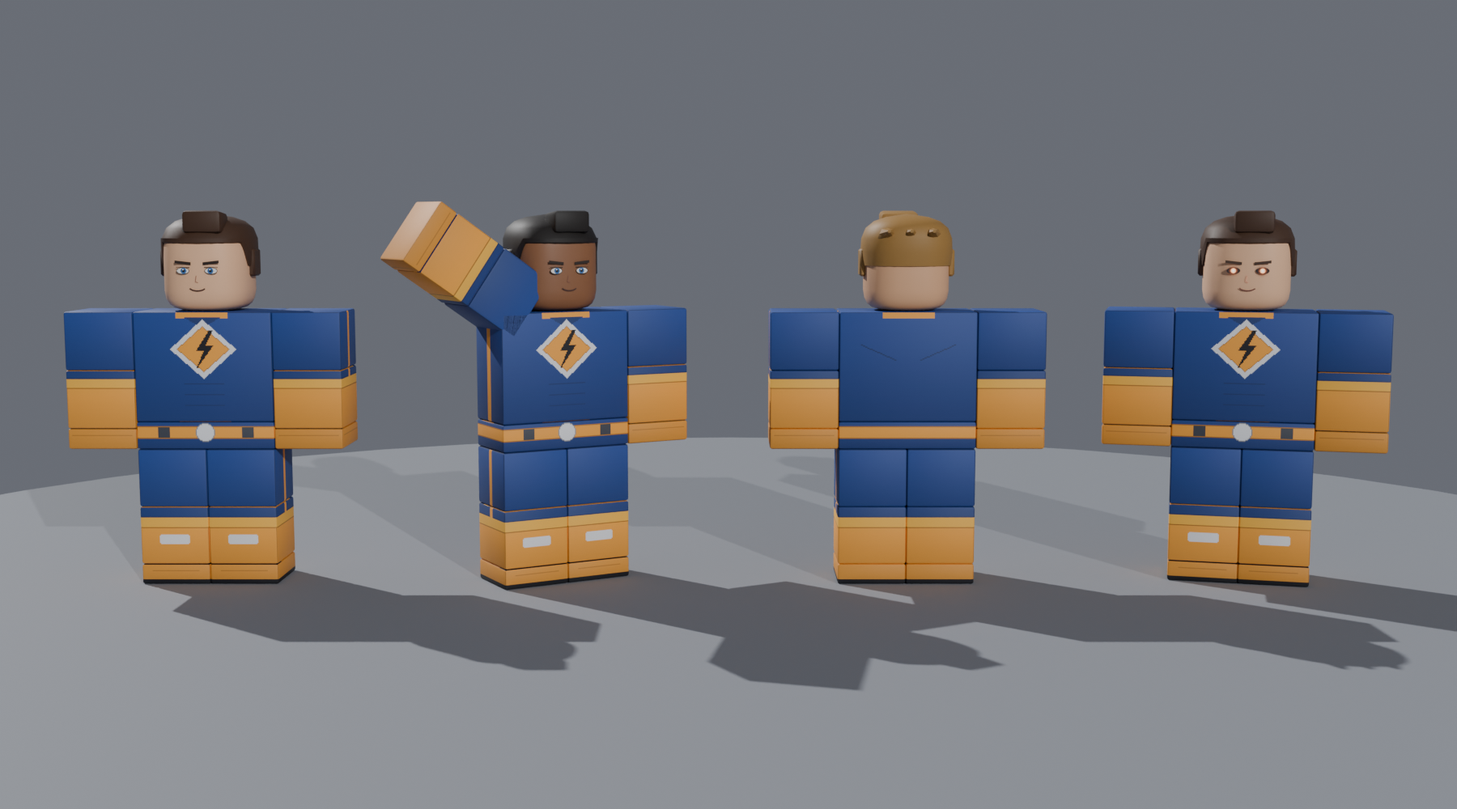
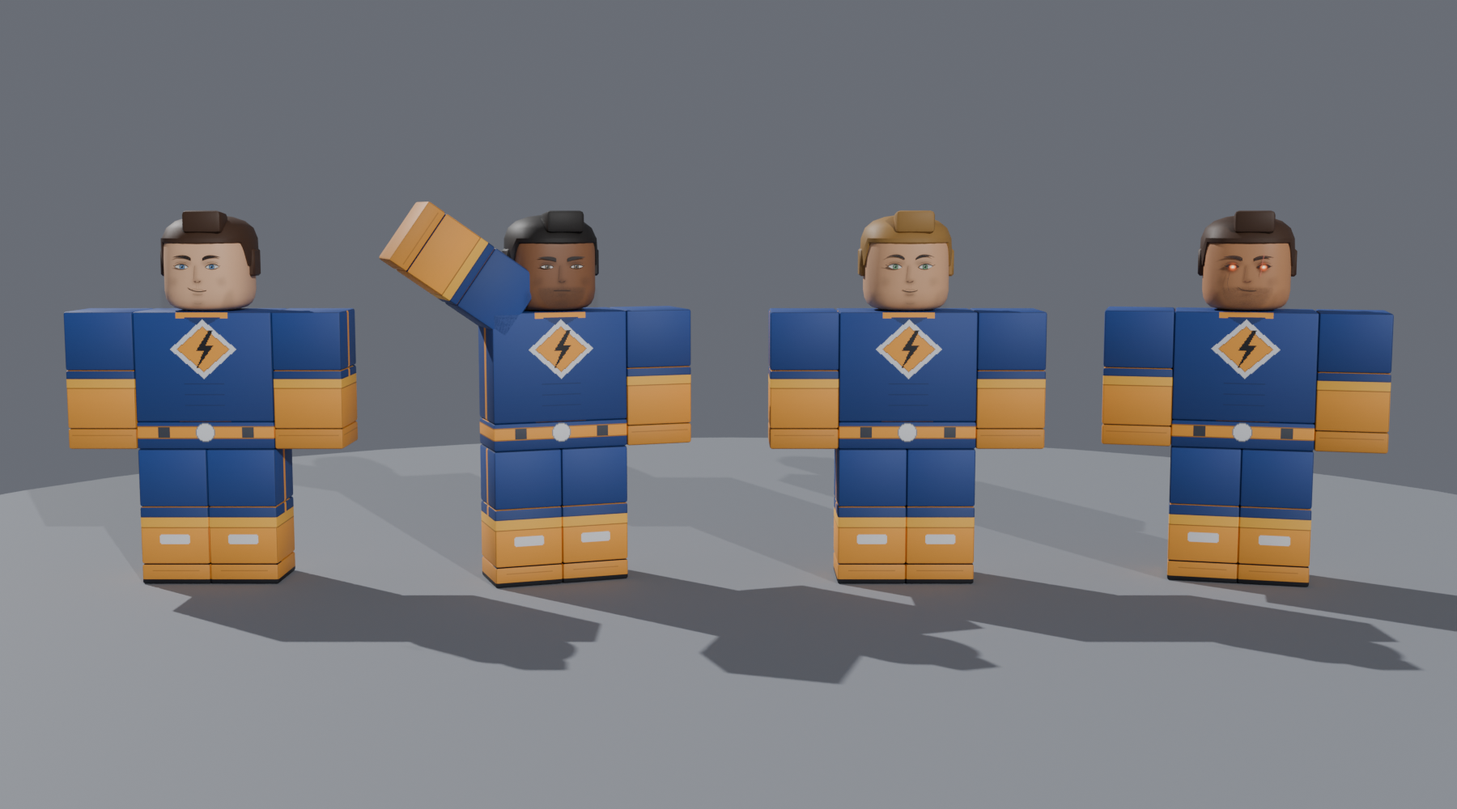
Six detailed comic-style faces shared by every Roblox-look robot
nate: the face lacked detail and looked too kiddish, and enemies must not
look repetitive. art/clothes/faces.py draws six faces (Hero, Stern,
Sharp, Scarred, Rookie, Cold) with turned versions in a comic-book style
(tapered brows, lidded almond eyes, iris detail, shaded nose and lips,
stubble, scar, freckles); a robot picks its face, hair and skin from its
id (Config.NpcLooks.faces).

Claude-Session: https://claude.ai/code/session_01WrbiZdq5Rn8sG9wtheCvLC

diff --git a/art/clothes/faces.py b/art/clothes/faces.py
@@ -1,0 +1,221 @@
+# art/clothes/faces.py: the face decals every Roblox-look robot shares (and citizens later), in a comic-book hero
+# style rather than a cartoon one (nate, 2026-11-17: "not enough detail and looks too kiddish ... accessible to
+# all ages but not super kiddish"; "dont want enemies to get repetitive"). Each face has a human version and a
+# turned one (dark whites, glowing irises, an android seam on one cheek). The shading is see-through dark, so
+# one face works on every skin tone. A robot picks its face from its id, like its skin and hair.
+# Output: art/export/clothes/faces/Face_<Name>.png and Face_<Name>_Turned.png (1024 px), and
+# art/preview/faces.png (all of them on two skin tones).
+# Run: python3 art/clothes/faces.py   (PIL only)
+import math
+import os
+
+from PIL import Image, ImageDraw, ImageFilter
+
+ROOT = os.path.dirname(os.path.dirname(os.path.abspath(__file__)))
+OUT = os.path.join(ROOT, "export", "clothes", "faces")
+os.makedirs(OUT, exist_ok=True)
+
+S = 2048  # drawn at 2x, saved at 1024 (smooth edges)
+INK = (38, 26, 22)
+SHADE = (70, 38, 30)
+
+# The faces. brow: thickness, arch (how high the middle rises), tilt (+ angles down to the nose); eye: half
+# width, half height, tilt of the outer corner (+ up), lid (how far the upper lid hangs over: hooded eyes),
+# lash (outer flick length); iris colour; mouth: width, curve (+ smile), lift (one corner up: a smirk), lip
+# (lower lip weight); extras: stubble, scar (over the left eye), freckles, cheek (cheekbone strength).
+FACES = {
+    "Hero": dict(brow=(64, 80, 10), eye=(175, 78, 8, 0, 40), iris=(70, 120, 175), mouth=(460, 30, 40, 1.0),
+                 stubble=False, scar=False, freckles=False, cheek=1.0),
+    "Stern": dict(brow=(84, 30, 26), eye=(170, 62, 2, 18, 34), iris=(95, 75, 50), mouth=(440, -6, 0, 0.8),
+                  stubble=True, scar=False, freckles=False, cheek=1.3),
+    "Sharp": dict(brow=(46, 110, 4), eye=(180, 84, 16, 0, 70), iris=(80, 140, 90), mouth=(400, 40, 0, 1.4),
+                  stubble=False, scar=False, freckles=False, cheek=0.9),
+    "Scarred": dict(brow=(70, 60, 16), eye=(168, 70, 6, 8, 36), iris=(130, 135, 140), mouth=(450, 10, 60, 0.9),
+                    stubble=True, scar=True, freckles=False, cheek=1.2),
+    "Rookie": dict(brow=(56, 90, 0), eye=(170, 90, 4, 0, 34), iris=(110, 80, 50), mouth=(420, 60, 20, 1.0),
+                   stubble=False, scar=False, freckles=True, cheek=0.8),
+    "Cold": dict(brow=(60, 50, 20), eye=(176, 60, 12, 26, 50), iris=(150, 205, 230), mouth=(400, -14, 0, 0.6),
+                 stubble=False, scar=False, freckles=False, cheek=1.4),
+}
+
+
+def bez(p0, p1, p2, p3, n=24):
+    """Points along a cubic Bezier curve."""
+    out = []
+    for i in range(n + 1):
+        t = i / n
+        a, b, c, d = (1 - t) ** 3, 3 * t * (1 - t) ** 2, 3 * t * t * (1 - t), t ** 3
+        out.append((a * p0[0] + b * p1[0] + c * p2[0] + d * p3[0], a * p0[1] + b * p1[1] + c * p2[1] + d * p3[1]))
+    return out
+
+
+def soft(shapes, blur):
+    """A blurred layer of shapes (kind, coords, rgba): soft shading."""
+    lay = Image.new("RGBA", (S, S), (0, 0, 0, 0))
+    d = ImageDraw.Draw(lay)
+    for kind, xy, c in shapes:
+        getattr(d, kind)(xy, fill=c)
+    return lay.filter(ImageFilter.GaussianBlur(blur))
+
+
+def face(f, turned):
+    im = Image.new("RGBA", (S, S), (0, 0, 0, 0))
+    k = f["cheek"]
+    # form shading: cheekbone hollows and jaw sides (a narrow band each side), under the brows, the nose's side,
+    # under the nose and the lower lip, the chin
+    im.alpha_composite(soft([
+        ("polygon", [(300, 1180), (520, 1240), (470, 1420), (260, 1380)], (*SHADE, int(30 * k))),
+        ("polygon", [(1748, 1180), (1528, 1240), (1578, 1420), (1788, 1380)], (*SHADE, int(30 * k))),
+        ("polygon", [(80, 1500), (260, 1560), (420, 1980), (200, 2048), (60, 2048)], (*SHADE, int(32 * k))),
+        ("polygon", [(1968, 1500), (1788, 1560), (1628, 1980), (1848, 2048), (1988, 2048)], (*SHADE, int(32 * k))),
+        ("ellipse", [470, 760, 900, 900], (*SHADE, 55)), ("ellipse", [1148, 760, 1578, 900], (*SHADE, 55)),
+        ("polygon", [(1040, 880), (1090, 880), (1110, 1300), (1050, 1300)], (*SHADE, 70)),
+        ("ellipse", [890, 1270, 1160, 1370], (*SHADE, 70)),
+        ("ellipse", [880, 1610, 1170, 1690], (*SHADE, int(60 * f["mouth"][3]))),
+        ("ellipse", [860, 1820, 1190, 1960], (*SHADE, 45)),
+    ], 40))
+    if f["stubble"]:
+        # a short beard shadow round the jaw and lip, as speckle over a faint tone
+        def jaw(x, y):  # inside the jaw's U (under the cheekbones, round the chin)
+            return y > 1470 and ((x - 1024) / 640) ** 2 + ((y - 1470) / 620) ** 2 <= 1
+
+        jawline = [(1024 + 640 * math.cos(a / 40 * math.pi), 1470 + 620 * math.sin(a / 40 * math.pi)) for a in range(41)]
+        im.alpha_composite(soft([("polygon", jawline, (40, 30, 26, 46)),
+                                 ("ellipse", [830, 1440, 1218, 1525], (40, 30, 26, 40))], 34))
+        sp = Image.new("RGBA", (S, S), (0, 0, 0, 0))
+        sd = ImageDraw.Draw(sp)
+        import random
+        rnd = random.Random(7)
+        for _ in range(2600):
+            x, y = rnd.uniform(330, 1718), rnd.uniform(1430, 2040)
+            inside = jaw(x, y) or (((x - 1024) / 190) ** 2 + ((y - 1484) / 42) ** 2 <= 1)
+            if inside and not (1545 < y < 1660 and 800 < x < 1250):
+                sd.ellipse([x, y, x + 6, y + 6], fill=(30, 22, 20, 120))
+        im.alpha_composite(sp)
+    d = ImageDraw.Draw(im)
+    thick, arch, tilt = f["brow"]
+    ew, eh, etilt, lid, lash = f["eye"]
+    for s in (-1, 1):
+        cx = S // 2 + s * 400
+        # the brow: heavier toward the nose, tapering out
+        inner = (S // 2 + s * 150, 700 + tilt * 0.5)
+        outer = (S // 2 + s * 640, 690 - tilt * 0.3)
+        top = bez(inner, (cx - s * 150, 690 - arch - thick * 0.3), (cx + s * 80, 690 - arch), outer, 30)
+        bot = bez(outer, (cx + s * 80, 690 - arch + thick * 0.75), (cx - s * 150, 690 - arch * 0.5 + thick),
+                  (inner[0], inner[1] + thick), 30)
+        if f["scar"] and s < 0:
+            # a cut through the left brow: leave a gap
+            gap = [p for p in top if abs(p[0] - (cx + 40)) > 26]
+            d.polygon(gap + [p for p in bot if abs(p[0] - (cx + 40)) > 26], fill=(*INK, 255))
+        else:
+            d.polygon(top + bot, fill=(*INK, 255))
+        for j in range(16):  # fine hairs inside the brow so it reads as hair, not a block
+            t = 0.08 + j / 15 * 0.84
+            x, y = top[int(t * 29)]
+            d.line([(x, y + 14), (x + s * 34, y + 14 + thick * 0.4)], fill=(90, 66, 56, 140), width=5)
+        # the eye: almond, tilted, the lid crease above
+        cy = 930
+        inner_c, outer_c = (cx - s * ew, cy + 6), (cx + s * ew, cy - 4 - etilt)
+        upper = bez(inner_c, (cx - s * 90, cy - eh - 10 + lid * 0.4), (cx + s * 80, cy - eh - 18 + lid), outer_c, 30)
+        lower = bez(outer_c, (cx + s * 90, cy + eh - 10), (cx - s * 80, cy + eh), inner_c, 30)
+        d.polygon(upper + lower, fill=(22, 22, 28, 255) if turned else (240, 236, 228, 255))
+        mask = Image.new("L", (S, S), 0)
+        ImageDraw.Draw(mask).polygon(upper + lower, fill=255)
+        eye = Image.new("RGBA", (S, S), (0, 0, 0, 0))
+        ed = ImageDraw.Draw(eye)
+        ix, iy, r = cx - s * 12, cy + 4, 72
+        if turned:
+            glow = Image.new("RGBA", (S, S), (0, 0, 0, 0))
+            ImageDraw.Draw(glow).ellipse([ix - r * 1.6, iy - r * 1.6, ix + r * 1.6, iy + r * 1.6], fill=(255, 110, 50, 230))
+            im.alpha_composite(glow.filter(ImageFilter.GaussianBlur(40)))
+            ed.ellipse([ix - r, iy - r, ix + r, iy + r], fill=(255, 120, 55, 255))
+            ed.ellipse([ix - r * 0.62, iy - r * 0.62, ix + r * 0.62, iy + r * 0.62], fill=(255, 200, 140, 255))
+            ed.ellipse([ix - r * 0.28, iy - r * 0.28, ix + r * 0.28, iy + r * 0.28], fill=(255, 250, 235, 255))
+        else:
+            iris = f["iris"]
+            dark = tuple(int(c * 0.55) for c in iris)
+            light = tuple(min(255, int(c * 1.35)) for c in iris)
+            ed.ellipse([ix - r, iy - r, ix + r, iy + r], fill=(*dark, 255))
+            ed.ellipse([ix - r * 0.86, iy - r * 0.86, ix + r * 0.86, iy + r * 0.86], fill=(*iris, 255))
+            for j in range(28):  # iris fibres
+                a = j / 28 * 2 * math.pi
+                ed.line([(ix + math.cos(a) * r * 0.42, iy + math.sin(a) * r * 0.42),
+                         (ix + math.cos(a) * r * 0.82, iy + math.sin(a) * r * 0.82)], fill=(*light, 200), width=5)
+            ed.ellipse([ix - r * 0.4, iy - r * 0.4, ix + r * 0.4, iy + r * 0.4], fill=(12, 12, 16, 255))
+            ed.ellipse([ix + r * 0.12, iy - r * 0.5, ix + r * 0.42, iy - r * 0.2], fill=(255, 255, 255, 255))
+        clipped = Image.new("RGBA", (S, S), (0, 0, 0, 0))
+        clipped.paste(eye, (0, 0), Image.composite(eye.getchannel("A"), Image.new("L", (S, S), 0), mask))
+        im.alpha_composite(clipped)
+        # the upper lid's shadow on the eye, the lash line and its outer flick, the crease, the lower lid
+        im.alpha_composite(soft([("polygon", upper + [(outer_c[0], cy - 30), (inner_c[0], cy - 26)], (0, 0, 0, 90))], 14))
+        d = ImageDraw.Draw(im)
+        d.line(upper, fill=(*INK, 255), width=20, joint="curve")
+        d.line([outer_c, (outer_c[0] + s * lash, outer_c[1] - lash * 0.55)], fill=(*INK, 255), width=14)
+        crease = bez((cx - s * 130, cy - 98 + lid), (cx - s * 40, cy - 140 + lid), (cx + s * 80, cy - 140 + lid),
+                     (cx + s * 160, cy - 90 + lid * 0.6), 20)
+        d.line(crease, fill=(*SHADE, 170), width=8, joint="curve")
+        d.line(lower[4:-6], fill=(*SHADE, 160), width=7, joint="curve")
+        if f["scar"] and s < 0:
+            # a healed scar from the brow, over the lid, onto the cheek
+            d.line([(cx + 10, 600), (cx + 40, 780), (cx + 70, 1060), (cx + 90, 1180)], fill=(150, 80, 70, 170), width=16)
+        if turned and s > 0:
+            # an android seam down the cheek, the only machine sign before it breaks
+            d.line([(cx + 60, cy + 150), (cx + 110, cy + 420), (cx + 70, cy + 640)], fill=(30, 30, 36, 200), width=6)
+            for t in (0.3, 0.6):
+                x = cx + 60 + 50 * t * 2
+                d.line([(x, cy + 150 + 270 * t * 2), (x + 26, cy + 150 + 270 * t * 2)], fill=(30, 30, 36, 200), width=5)
+    if f["freckles"]:
+        import random
+        rnd = random.Random(11)
+        for s in (-1, 1):
+            for _ in range(26):
+                x = S // 2 + s * rnd.uniform(180, 480)
+                y = rnd.uniform(1100, 1260)
+                d.ellipse([x, y, x + 14, y + 12], fill=(*SHADE, 110))
+    # nose: the bridge line on one side, the tip and nostrils
+    d.line(bez((1080, 900), (1100, 1050), (1110, 1180), (1120, 1260), 16), fill=(*SHADE, 150), width=9, joint="curve")
+    d.line(bez((930, 1290), (960, 1335), (1000, 1340), (1024, 1330), 12), fill=(*SHADE, 200), width=10, joint="curve")
+    d.line(bez((1024, 1330), (1050, 1340), (1090, 1335), (1120, 1290), 12), fill=(*SHADE, 200), width=10, joint="curve")
+    d.ellipse([950, 1295, 990, 1318], fill=(*SHADE, 170))
+    d.ellipse([1058, 1295, 1098, 1318], fill=(*SHADE, 170))
+    # mouth: the parting line (curve + smile, lift raises the right corner), the upper lip's bow, the lower lip
+    mw, curve, lift, lip = f["mouth"]
+    x0, x1 = 1024 - mw / 2, 1024 + mw / 2
+    y0, y1 = 1555, 1545 - lift
+    mouth = bez((x0, y0 - curve * 0.4), (x0 + mw * 0.28, y0 + curve), (x1 - mw * 0.28, y0 + curve), (x1, y1 - curve * 0.4), 30)
+    d.line(mouth, fill=(*INK, 255), width=16, joint="curve")
+    if lift > 0:
+        d.line([(x1, y1 - curve * 0.4), (x1 + 30, y1 - curve * 0.4 - 26)], fill=(*INK, 255), width=10)
+    bow = bez((x0 + 70, 1540), (960, 1500), (990, 1510), (1024, 1525), 14) + \
+        bez((1024, 1525), (1060, 1505), (1100, 1495), (x1 - 70, 1530 - lift * 0.3), 14)
+    d.line(bow, fill=(*SHADE, 120), width=8, joint="curve")
+    d.line(bez((x0 + 100, 1640), (980, 1640 + 25 * lip), (1080, 1640 + 25 * lip), (x1 - 100, 1630), 16),
+           fill=(*SHADE, int(150 * min(1, lip))), width=9, joint="curve")
+    # philtrum, chin line
+    d.line([(1000, 1370), (995, 1490)], fill=(*SHADE, 70), width=6)
+    d.line([(1048, 1370), (1053, 1490)], fill=(*SHADE, 70), width=6)
+    d.line(bez((930, 1880), (990, 1910), (1060, 1910), (1120, 1880), 12), fill=(*SHADE, 120), width=8, joint="curve")
+    return im.resize((1024, 1024), Image.LANCZOS)
+
+
+if __name__ == "__main__":
+    tiles = []
+    for name, f in FACES.items():
+        for turned in (False, True):
+            im = face(f, turned)
+            path = os.path.join(OUT, "Face_%s%s.png" % (name, "_Turned" if turned else ""))
+            im.save(path)
+            tiles.append((name, turned, im))
+    # preview: each face (human, turned) on a light and a dark skin
+    T = 300
+    sheet = Image.new("RGBA", (T * len(FACES), T * 3), (40, 42, 48, 255))
+    for i, (name, f) in enumerate(FACES.items()):
+        human = [t[2] for t in tiles if t[0] == name and not t[1]][0]
+        turned = [t[2] for t in tiles if t[0] == name and t[1]][0]
+        for row, (skin, im) in enumerate((((240, 190, 150), human), ((141, 95, 64), human), ((224, 172, 130), turned))):
+            tile = Image.new("RGBA", (1024, 1024), (*skin, 255))
+            tile.alpha_composite(im)
+            sheet.paste(tile.resize((T - 8, T - 8), Image.LANCZOS), (i * T + 4, row * T + 4))
+    prev = os.path.join(ROOT, "preview", "faces.png")
+    sheet.convert("RGB").save(prev)
+    print("wrote", len(tiles), "faces and", prev)

diff --git a/art/clothes/trooper.py b/art/clothes/trooper.py
@@ -2,8 +2,8 @@
 # "just looks like a roblox character with clothes"). Draws the real upload-ready textures on Roblox's classic
 # clothing template (585 x 559; Shirt and Pants), plus the face decal (human, and "turned" with glowing eyes).
 # Output: art/export/clothes/Trooper_Clothes.png (the shirt over the pants on one template: the image the game's
-# robots wear, Shared.ClothesMap), Trooper_Shirt.png and Trooper_Pants.png (the same as real Roblox clothing),
-# Trooper_Face.png and Trooper_FaceTurned.png.
+# robots wear, Shared.ClothesMap), Trooper_Shirt.png and Trooper_Pants.png (the same as real Roblox clothing).
+# The faces are shared by every robot: art/clothes/faces.py.
 # Run: python3 art/clothes/trooper.py   (PIL only)
 import math
 import os
@@ -148,48 +148,11 @@ def pants():
     return im
 
 
-def face(turned):
-    """A Roblox face decal (the head's front): brows, eyes, nose and mouth on a clear background. Human eyes
-    (white, a blue iris, a pupil and a glint); turned, the whites go dark and the irises glow."""
-    S = 512
-    im = Image.new("RGBA", (S, S), (0, 0, 0, 0))
-    d = ImageDraw.Draw(im)
-    brow = (44, 30, 22, 255)
-    for s in (-1, 1):
-        cx = S // 2 + s * 92
-        # a heroic brow: thick, angled down toward the nose
-        d.polygon([(cx - 52, 196 + (6 if s > 0 else -6)), (cx + 52, 196 - (6 if s > 0 else -6)),
-                   (cx + 52, 214 - (6 if s > 0 else -6)), (cx - 52, 214 + (6 if s > 0 else -6))], fill=brow)
-        ey = 258
-        if turned:
-            d.ellipse([cx - 42, ey - 22, cx + 42, ey + 22], fill=(22, 22, 28, 255))
-            glow = Image.new("RGBA", (S, S), (0, 0, 0, 0))
-            gd = ImageDraw.Draw(glow)
-            gd.ellipse([cx - 30, ey - 24, cx + 30, ey + 24], fill=(255, 120, 60, 200))
-            glow = glow.filter(ImageFilter.GaussianBlur(9))
-            im.alpha_composite(glow)
-            d = ImageDraw.Draw(im)
-            d.ellipse([cx - 16, ey - 16, cx + 16, ey + 16], fill=(255, 190, 140, 255))
-            d.ellipse([cx - 8, ey - 8, cx + 8, ey + 8], fill=(255, 245, 230, 255))
-        else:
-            d.ellipse([cx - 42, ey - 22, cx + 42, ey + 22], fill=(246, 244, 238, 255), outline=(60, 44, 36, 255),
-                      width=4)
-            d.ellipse([cx - 19 - s * 4, ey - 19, cx + 19 - s * 4, ey + 19], fill=(60, 110, 170, 255))
-            d.ellipse([cx - 9 - s * 4, ey - 9, cx + 9 - s * 4, ey + 9], fill=(16, 16, 20, 255))
-            d.ellipse([cx - 1 - s * 4, ey - 12, cx + 7 - s * 4, ey - 4], fill=(255, 255, 255, 255))
-            d.line([(cx - 44, ey - 22), (cx + 44, ey - 24)], fill=(60, 44, 36, 255), width=5)  # the lid
-    # nose (a soft shadow) and a confident half smile
-    d.line([(S // 2 + 6, 290), (S // 2 + 12, 330), (S // 2 - 4, 336)], fill=(150, 100, 80, 160), width=6)
-    d.arc([S // 2 - 58, 330, S // 2 + 58, 392], 25, 150, fill=(70, 40, 34, 255), width=8)
-    return im
-
-
 if __name__ == "__main__":
     top, bottom = shirt(), pants()
     both = bottom.copy()
     both.alpha_composite(top)  # Roblox draws the shirt over the pants
-    for name, im in (("Trooper_Clothes", both), ("Trooper_Shirt", top), ("Trooper_Pants", bottom),
-                     ("Trooper_Face", face(False)), ("Trooper_FaceTurned", face(True))):
+    for name, im in (("Trooper_Clothes", both), ("Trooper_Shirt", top), ("Trooper_Pants", bottom)):
         path = os.path.join(OUT, name + ".png")
         im.save(path)
         print("wrote", path)

diff --git a/art/blender/clothed.py b/art/blender/clothed.py
@@ -83,7 +83,13 @@ def image(name):
 
 shirt_img = image(ROBOT + "_Shirt")
 pants_img = image(ROBOT + "_Pants")
-faces = {False: image(ROBOT + "_Face"), True: image(ROBOT + "_FaceTurned")}
+FACES_DIR = os.path.join(CLOTHES, "faces")
+
+
+def face_img(name, turned):
+    img = bpy.data.images.load(os.path.join(FACES_DIR, "Face_%s%s.png" % (name, "_Turned" if turned else "")))
+    img.alpha_mode = "STRAIGHT"
+    return img
 
 
 def clothed_mat(name, skin, layers):
@@ -182,7 +188,7 @@ def hair():
     return kit.join("Hair", subs)
 
 
-def face_plane(turned):
+def face_plane(turned, name):
     bpy.ops.mesh.primitive_plane_add(size=1.12, location=(0, 0.635, 4.6), rotation=(math.pi / 2, 0, 0))
     ob = bpy.context.active_object
     m = bpy.data.materials.new("face")
@@ -190,7 +196,7 @@ def face_plane(turned):
     nt = m.node_tree
     p = nt.nodes["Principled BSDF"]
     t = nt.nodes.new("ShaderNodeTexImage")
-    t.image = faces[turned]
+    t.image = face_img(name, turned)
     nt.links.new(t.outputs["Color"], p.inputs["Base Color"])
     nt.links.new(t.outputs["Alpha"], p.inputs["Alpha"])
     p.inputs["Roughness"].default_value = 0.5
@@ -201,7 +207,7 @@ def face_plane(turned):
     return ob
 
 
-def figure(at, yaw, skin, hair_rgb, turned=False, arm_up=False):
+def figure(at, yaw, skin, hair_rgb, turned=False, arm_up=False, face="Hero"):
     Y = Matrix.Translation(Vector(at)) @ Matrix.Rotation(math.radians(yaw), 4, "Z")
     obs = []
     for name in BLOCKS:
@@ -219,7 +225,7 @@ def figure(at, yaw, skin, hair_rgb, turned=False, arm_up=False):
     kit.shade_auto(h, 60)
     h.data.materials.append(kit.material("skin%d" % len(bpy.data.materials), srgb(skin), rough=0.55))
     obs.append(h)
-    obs.append(face_plane(turned))
+    obs.append(face_plane(turned, face))
     hr = hair()
     kit.shade_auto(hr, 40)
     hr.data.materials.append(kit.material("hair%d" % len(bpy.data.materials), srgb(hair_rgb), rough=0.6))
@@ -229,10 +235,10 @@ def figure(at, yaw, skin, hair_rgb, turned=False, arm_up=False):
 
 
 kit.studio(res=(1800, 1000), samples=64)
-figure((7.6, 0, 0), 0, (240, 190, 150), (70, 46, 30))
-figure((2.6, 0, 0), 30, (141, 95, 64), (30, 26, 24), arm_up=True)
-figure((-2.6, 0, 0), 180, (224, 172, 130), (160, 120, 60))
-figure((-7.6, 0, 0), -15, (240, 190, 150), (70, 46, 30), turned=True)
+figure((7.6, 0, 0), 0, (240, 190, 150), (70, 46, 30), face="Hero")
+figure((2.6, 0, 0), 20, (141, 95, 64), (30, 26, 24), arm_up=True, face="Stern")
+figure((-2.6, 0, 0), 0, (224, 172, 130), (160, 120, 60), face="Sharp")
+figure((-7.6, 0, 0), -15, (198, 140, 96), (70, 46, 30), turned=True, face="Scarred")
 floor = kit.cyl("floor", 16, 16, 0.2, at=(0, 0, -0.1), segs=48)
 floor.data.materials.append(kit.material("floor", (60, 64, 72), rough=0.8))
 kit.camera((0, 25.0, 5.4), (0, 0, 2.6), lens=42)

diff --git a/CLAUDE.md b/CLAUDE.md
@@ -15,7 +15,7 @@ Read this first. Keep it short. Quality comes first; efficiency never means lowe
   - `rojo sourcemap default.project.json -o sourcemap.json` then `luau-lsp analyze --sourcemap=sourcemap.json --definitions=$HOME/tools/globalTypes.d.luau --platform=roblox src` (type check; read new errors in changed files, ignore optional-value noise)
 
 ## Memory: read these, keep them current
-- `art/`: Blender art. `art/blender/*.py` build meshes with `$HOME/tools/bpyenv/bin/python art/blender/robots.py [--preview]` (writes `art/export/Robots.fbx`, `src/config/ArtFit.luau` and `art/preview/robots.png`; `hero.py` the R15 hero body, `bodies.py` the 8 body sets into `art/export/Bodies.fbx`, imported as ReplicatedStorage.Art.Bodies; `trooper.py` the remade Spark Trooper: superhero shell set (face, hair, suit) with a baked texture set into `art/export/Trooper.fbx` + `art/export/trooper/*.png`, `src/config/TrooperArt.luau`, imported as ReplicatedStorage.Art.Trooper); `street.py` the city kit's street props into `art/export/Street.fbx` + `src/config/StreetArt.luau`; `block.py` renders the kit block from `art/export/city/block.json`, which `lune run art/city/block.luau` writes from the game's layout); `art/clothes/<robot>.py` (python3 with PIL) draws a robot's Roblox-look clothes (the classic Shirt and Pants template, combined into <Robot>_Clothes.png) and face decals into `art/export/clothes`, and `art/blender/clothed.py` previews them on the blocky body; `art/city/materials.py` (python3 with numpy and PIL) draws the city kit's tiling textures into `art/export/city` (MaterialVariants "Kit"..name, nate uploads); `art/fx/textures.py` (plain python3 with PIL) draws the effects textures into `art/export/fx` (preview `art/preview/fx.png`) for nate to upload; after a change nate re-imports the FBX in Studio (uploads need his account); the uploaded model is pulled back into `art/models/Robots.rbxm` (mesh ids in `art/models/meshids.json`; the R15 hero body is `art/models/Hero.rbxm`, ids in `hero_meshids.json`; Studio's zstd rbxl needs decompressing before Lune reads it, and imported MeshIds must be re-set from the ids file), which Rojo maps to ReplicatedStorage.Art, so every build has the meshes (Tasks.md "Blender robot meshes").
+- `art/`: Blender art. `art/blender/*.py` build meshes with `$HOME/tools/bpyenv/bin/python art/blender/robots.py [--preview]` (writes `art/export/Robots.fbx`, `src/config/ArtFit.luau` and `art/preview/robots.png`; `hero.py` the R15 hero body, `bodies.py` the 8 body sets into `art/export/Bodies.fbx`, imported as ReplicatedStorage.Art.Bodies; `trooper.py` the remade Spark Trooper: superhero shell set (face, hair, suit) with a baked texture set into `art/export/Trooper.fbx` + `art/export/trooper/*.png`, `src/config/TrooperArt.luau`, imported as ReplicatedStorage.Art.Trooper); `street.py` the city kit's street props into `art/export/Street.fbx` + `src/config/StreetArt.luau`; `block.py` renders the kit block from `art/export/city/block.json`, which `lune run art/city/block.luau` writes from the game's layout); `art/clothes/<robot>.py` (python3 with PIL) draws a robot's Roblox-look clothes (the classic Shirt and Pants template, combined into <Robot>_Clothes.png) into `art/export/clothes`, `art/clothes/faces.py` the six shared face decals (and turned versions) into `art/export/clothes/faces` (preview `art/preview/faces.png`), and `art/blender/clothed.py` previews them on the blocky body; `art/city/materials.py` (python3 with numpy and PIL) draws the city kit's tiling textures into `art/export/city` (MaterialVariants "Kit"..name, nate uploads); `art/fx/textures.py` (plain python3 with PIL) draws the effects textures into `art/export/fx` (preview `art/preview/fx.png`) for nate to upload; after a change nate re-imports the FBX in Studio (uploads need his account); the uploaded model is pulled back into `art/models/Robots.rbxm` (mesh ids in `art/models/meshids.json`; the R15 hero body is `art/models/Hero.rbxm`, ids in `hero_meshids.json`; Studio's zstd rbxl needs decompressing before Lune reads it, and imported MeshIds must be re-set from the ids file), which Rojo maps to ReplicatedStorage.Art, so every build has the meshes (Tasks.md "Blender robot meshes").
 - `notes/Current Progress.md`: done / in progress / next. Under 20 lines. Read it at the start of every session.
 - `notes/Tasks.md`: milestones in order with their "done when" checks, plus the Studio test list (what needs nate's PC).
 - `notes/Decisions.md`: every design or technical decision, one line each with the date. Check it before changing direction.

diff --git a/notes/Tasks.md b/notes/Tasks.md
@@ -239,14 +239,15 @@ Checks (walk out of the plaza to the east):
 ### Robots: try both looks in game (2026-11-17)
 nate wants to compare the two robot looks in game: "Roblox" (a plain Roblox character: blocky R15 body, classic clothes image, a Roblox face that turns, real Roblox hair from the catalog) and "Shell" (the Blender superhero meshes below). Dev panel button "Robots: Auto / Roblox / Shell / Plain" switches every robot live. The Output says build robot-looks (2026-11-17).
 Uploads (once; then Claude builds one place with everything in it):
-1. Download Trooper_Clothes.png, Trooper_Face.png, Trooper_FaceTurned.png and Trooper.fbx (project files capeline/art/clothes and capeline/art/trooper).
-2. Studio, any place: View > Asset Manager > Bulk Import, pick the three PNGs, Open. Wait until they show under Images.
-3. In Asset Manager > Images, right-click each of the three > Copy ID to Clipboard, and paste each into the chat with its name.
+(Faster: an Open Cloud API key lets Claude upload all of these itself through Remote Control; see Decisions 2026-11-17.)
+1. Download Trooper_Clothes.png, the 12 face PNGs (Face_<Name>.png and Face_<Name>_Turned.png) and Trooper.fbx (project files capeline/art/clothes, capeline/art/clothes/faces and capeline/art/trooper).
+2. Studio, any place: View > Asset Manager > Bulk Import, pick the 13 PNGs, Open. Wait until they show under Images.
+3. In Asset Manager > Images, right-click each > Copy ID to Clipboard, and paste each into the chat with its name.
 4. Home > Import 3D, pick Trooper.fbx, keep "Import only as a single mesh" OFF, Import.
 5. In the Explorer, right-click the new Trooper model > Save to File..., save Trooper.rbxm, and attach it in the chat.
 6. Claude puts the ids in Config.NpcLooks and Trooper.rbxm in the repo and sends a new Capeline.rbxl; open it.
 Checks:
-7. Play, DEV > "3x Spark Trooper", then press "Robots:" to cycle. Roblox: blue suit with the diamond bolt emblem, orange gloves and boots, belt, a face with human eyes, Roblox hair (one of three styles, different per robot). Shell: the Blender superhero. Plain: the old look.
+7. Play, DEV > "3x Spark Trooper", then press "Robots:" to cycle. Roblox: blue suit with the diamond bolt emblem, orange gloves and boots, belt, one of six comic-style faces, Roblox hair (one of three styles); face, hair and skin differ robot to robot. Shell: the Blender superhero. Plain: the old look.
 8. Roblox look: the clothes sit right on every face (emblem centred on the chest, gloves on the hands, boots at the feet). If every face is shifted, Claude flips Config.NpcLooks.offsetSign. If the hair is missing, copy the Output's [NpcLooks] lines into the chat.
 9. Roblox look: the face turns (dark eyes that glow) the first time it attacks or breaks; it reddens during a windup; the white hit flash still shows; broken parts take their clothes with them.
 10. Performance: 30 Roblox-look robots near you hold the frame rate on PC (High) and on a phone (Low).

diff --git a/notes/Decisions.md b/notes/Decisions.md
@@ -184,3 +184,4 @@ One line each, newest at the bottom. Spec = "Capeline build spec".
 - 2026-11-17 (nate: "make the eyes look human before turning"): every robot has human eyes (white, an iris picked per robot) until it turns, the first time it winds up an attack or its shell starts breaking; from then on the whites go dark and the irises glow in its eye colour (red on a windup). Config.Enemies.look sclera, turnedSclera, irises.
 - 2026-11-17 (nate: "i want the characters to feel like roblox but not the combat or the environment"; "i want to try an ingame version of both styles"): robots get a second look, a plain Roblox character: the blocky R15 body, one classic clothes image per robot (the shirt drawn over the pants on Roblox's Shirt and Pants template) shown with a Texture per face cut to that face's piece of the template (Shared.ClothesMap, no Humanoid, so a hundred robots stay cheap), a Roblox face decal (human, swapped to a turned face), and real Roblox hair: free catalog items made by Roblox, loaded at boot by NpcLookService (InsertService, checked to be Roblox's own). Config.NpcLooks.style "auto" prefers it once uploaded; the Dev panel "Robots:" button compares Roblox, Shell and Plain live. Combat and the city keep their own style.
 - 2026-11-17 (nate): for anything in Studio or other apps, Claude writes a simple numbered step list instead of driving his PC (computer use only for editing files or folders).
+- 2026-11-17 (nate: the face had "not enough detail and looks too kiddish"; "dont want enemies to get repetitive"): six shared comic-book faces (art/clothes/faces.py: Hero, Stern, Sharp, Scarred, Rookie, Cold; each with a turned version), see-through shading so one face fits every skin; a robot picks face, hair and skin from its id (Config.NpcLooks.faces). Next for variety: uniform variants per kind and more enemy kinds, for nate to pick.
